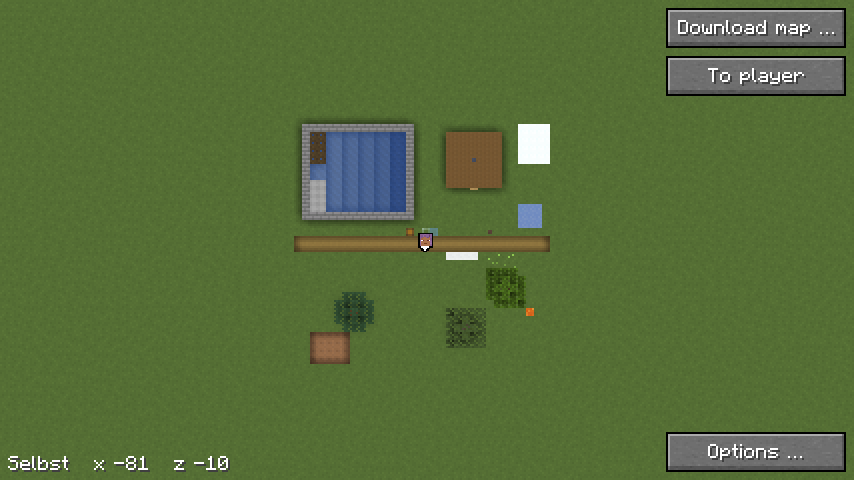
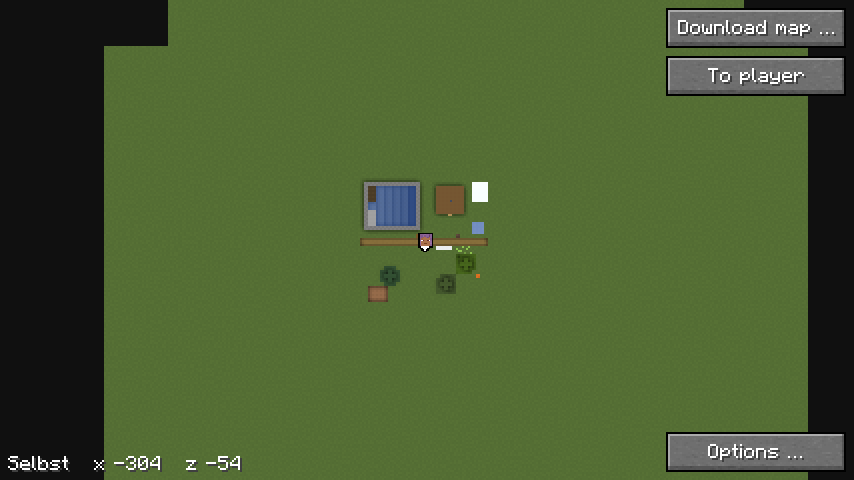
Bilder, Gegenproben und Platz je Massstab zur eigenen Karte (mod#78, mod#83)
Kachelwerk.lege lehnt ein Bild in anderem Massstab ab, statt die Kachel still
zu verdrehen. Der Gametest prüft, dass bei 2 px die feinste Stufe 7 ist und es
keine 8 gibt, und leert vor „Selbst“ die gemerkte Lage der Karte. selbst.png
und chunklinien.png mit 2 px neu. Messseite: Dateien und Platz je Massstab,
die Zeiten folgen in Ruhe.

diff --git a/src/gametest/java/com/nekyia/heroicmap/Bilder.java b/src/gametest/java/com/nekyia/heroicmap/Bilder.java
@@ -931,6 +931,8 @@ public final class Bilder implements FabricClientGameTest {
         }
         try {
             Laden.loesche(welt.resolve(Selbst.baum("minecraft:overworld")));
+            // Die Lage merkt sich die Karte je Dimension, nicht je Satz; die Stufe des Testsatzes passte nicht zur eigenen Karte.
+            Files.deleteIfExists(welt.resolve("karte.properties"));
         } catch (IOException e) {
             throw new UncheckedIOException(e);
         }
@@ -968,10 +970,10 @@ public final class Bilder implements FabricClientGameTest {
         context.waitFor(mc -> Selbst.INSTANZ.fertig(mc.player.chunkPosition(), 2), 1200);
         context.runOnClient(mc -> Minimap.INSTANZ.fuerTestBeschaeftigt(false));
         context.computeOnClient(mc -> Selbst.INSTANZ.schreibeJetzt()).join();
-        // Mit 2 px liegt die feinste Stufe auf 7, im Ordner des Massstabs.
-        Path stufe = welt.resolve(Selbst.baum("minecraft:overworld")).resolve("2").resolve("7");
-        if (!Files.isDirectory(stufe)) {
-            throw new AssertionError("Keine Kacheln auf Stufe 7 unter " + stufe);
+        // Mit 2 px liegt die feinste Stufe auf 7, im Ordner des Massstabs; Stufe 8 gibt es nicht.
+        Path ordner = welt.resolve(Selbst.baum("minecraft:overworld")).resolve("2");
+        if (!Files.isDirectory(ordner.resolve("7")) || Files.exists(ordner.resolve("8"))) {
+            throw new AssertionError("Kacheln mit 2 px nicht bis Stufe 7 unter " + ordner);
         }
         context.runOnClient(mc -> mc.gui.setScreen(new Karte(Satz.fuer(welt, "minecraft:overworld"))));
         context.waitTicks(40);

diff --git a/src/main/java/com/nekyia/heroicmap/Kachelwerk.java b/src/main/java/com/nekyia/heroicmap/Kachelwerk.java
@@ -68,6 +68,10 @@ final class Kachelwerk {
 
     /** Legt das Bild des Chunks (cx, cz), {@code chunk}² Pixel ARGB, in seine Kachel; es ersetzt, was dort war. */
     void lege(int cx, int cz, int[] pixel) {
+        if (pixel.length != chunk * chunk) {
+            // Ein Bild in anderem Massstab verdrehte die Kachel still.
+            throw new IllegalArgumentException("Chunk mit " + pixel.length + " Pixeln statt " + chunk * chunk);
+        }
         if (aufgegeben()) {
             return;
         }

diff --git a/src/test/java/com/nekyia/heroicmap/SelbstTest.java b/src/test/java/com/nekyia/heroicmap/SelbstTest.java
@@ -237,6 +237,8 @@ class SelbstTest {
         zwei.lege(-9, 8, voll(32, BLAU));
         assertEquals(new Kachelwerk.Kachel(7, -2, 1), schreibe(zwei, true).getFirst());
         assertEquals(BLAU, lies(ordner.resolve("2/7/-2/1.png"))[0 * 256 + 7 * 32]);
+        // Ein Chunk in anderem Massstab passt nicht und wird abgelehnt, statt die Kachel still zu verdrehen.
+        assertThrows(IllegalArgumentException.class, () -> zwei.lege(0, 0, voll(64, ROT)));
     }
 
     @Test

diff --git a/docs/messungen/2026-10-10-selbst-platz-je-massstab.md b/docs/messungen/2026-10-10-selbst-platz-je-massstab.md
@@ -1,0 +1,59 @@
+---
+title: Selbst gezeichnete Karte, Platz je Massstab
+description: Wie viele PNG die eigene Karte je Stunde schreibt und wie viel Platz sie danach braucht, bei 1, 2 und 4 Pixeln je Block, für eine Farm und einen Flug; ohne Minecraft, mit Kachelwerk. Nur Dateien und Platz, die Zeiten folgen in einer Messung in Ruhe.
+date: 2026-10-10
+commits: [e86457b]
+code:
+  - src/test/java/com/nekyia/heroicmap/KachelwerkMessung.java
+  - src/main/java/com/nekyia/heroicmap/Kachelwerk.java
+---
+
+# Selbst gezeichnete Karte, Platz je Massstab
+
+Eine Stunde Flug mit 20 Blöcken/s schreibt bei 1 px 4 276 PNG und belegt
+118 MiB, bei 2 px 7 366 PNG und 477 MiB, bei 4 px 16 306 PNG und
+1 877 MiB. Jede Stufe kostet etwa viermal so viel Platz wie die nächst
+gröbere, wie die Fläche in Pixeln.
+
+## Aufbau
+
+- `KachelwerkMessung` wie in
+  [Selbst gezeichnete Karte, Schreiben der Kacheln](2026-10-09-selbst-schreiben.md),
+  jetzt je Massstab: Kacheln von 256 Pixeln, die feinste Stufe 6, 7 oder 8,
+  bis Stufe 0.
+- **Farm:** ein Chunk ändert sich je Runde zu 5 s. **Flug:** je Runde 6
+  Reihen zu 25 Chunks dazu. 720 Runden, eine Stunde; jede zwölfte schreibt
+  auch die groben Stufen.
+- **Ein Chunk** hat je Block eine von 16 Zufallsfarben, je Pixel um bis zu
+  ±8 je Kanal verrauscht, wie gemittelte Texel. Echtes Gelände hat mehr
+  gleiche Flächen und packt in PNG besser; die Zahlen zum Platz sind darum
+  eher eine obere Schranke.
+- **Platz:** die Summe aller Dateien im Ordner nach der Stunde.
+
+## Ablauf
+
+10.10., 22:25 bis 22:32, ohne Sperre, neben anderen Programmen; Befehl
+`./gradlew test --tests '*KachelwerkMessung*' -Pkachelwerk=<datei>`. Dateien
+und Platz hängen nicht an der Last. Die Zeiten je Durchlauf stehen im
+Bericht des Tests, gelten aber nicht: Zeitmessungen laufen nachts in Ruhe
+unter Sperre.
+
+## Ergebnis
+
+| Fall | Massstab | PNG je Stunde | Platz danach |
+|---|---|---|---|
+| Farm | 1 px | 1 740 | unter 0,1 MiB |
+| Farm | 2 px | 1 800 | unter 0,1 MiB |
+| Farm | 4 px | 1 860 | unter 0,1 MiB |
+| Flug | 1 px | 4 276 | 118,1 MiB |
+| Flug | 2 px | 7 366 | 476,6 MiB |
+| Flug | 4 px | 16 306 | 1 877,1 MiB |
+
+## Schluss
+
+- **Bei 4 px** gleicht die Zahl der PNG der Messung vom 09.10.: Der Weg ist
+  derselbe.
+- **Platz** wächst etwa mit dem Quadrat der Pixel je Block; 1 px braucht
+  im Flug rund ein Sechzehntel von 4 px.
+- **Die Farm** bleibt bei jedem Massstab klein: Es sind immer dieselben
+  Kacheln, eine je Stufe.

diff --git a/docs/selbst.md b/docs/selbst.md
@@ -115,7 +115,8 @@ hat es der User gewünscht, siehe
   Massstabs. Die Projektion ist die des Renderers, siehe
   [Projektion](projektion.md): Chunk (cx, cz) liegt in Kachel
   (⌊cx / n⌋, ⌊cz / n⌋), n die Chunks je Seite einer Kachel. Ein Chunk
-  ersetzt seinen Ausschnitt ganz (`Kachelwerk.lege`).
+  ersetzt seinen Ausschnitt ganz (`Kachelwerk.lege`); ein Bild in anderem
+  Massstab lehnt `lege` ab, statt die Kachel zu verdrehen.
 
   | Massstab | feinste Stufe | Chunks je Kachel | Blöcke je Kachel |
   |---|---|---|---|
@@ -175,7 +176,19 @@ hat es der User gewünscht, siehe
   | Flug mit 20 Blöcken/s, Sichtweite 12 | 105 ms | 324 ms | 16 306 |
 
   Bei der Farm schriebe jede Stufe je Änderung alle 5 s 6 480 PNG je
-  Stunde. Die Messung läuft ohne Minecraft mit
+  Stunde.
+- **Platz je Massstab,** eine Stunde Flug, gemessen am 10.10., siehe
+  [Selbst gezeichnete Karte, Platz je Massstab](messungen/2026-10-10-selbst-platz-je-massstab.md):
+
+  | Massstab | PNG je Stunde | Platz danach |
+  |---|---|---|
+  | 1 px | 4 276 | 118 MiB |
+  | 2 px | 7 366 | 477 MiB |
+  | 4 px | 16 306 | 1 877 MiB |
+
+  Die Zeiten zum Schreiben bei 1 und 2 px misst die nächste Messung in
+  Ruhe; die Tabelle unter „Schreiben“ gilt für 4 px. Beide laufen ohne
+  Minecraft mit
   `./gradlew test --tests '*KachelwerkMessung*' -Pkachelwerk=<datei>`.
 
 ## Bild

diff --git a/docs/index.md b/docs/index.md
@@ -57,4 +57,5 @@ einer Datei findet `git grep -l "<pfad>" docs/` ihre Seiten.
 - [2026-10-09, Minimap, Vieleck auch ungedreht](messungen/2026-10-09-minimap-vieleck.md): was die Minimap je Frame kostet, seit sie auch ungedreht mit dem Vieleck zeichnet, gegen main; rund so billig wie eckig.
 - [2026-10-10, Minimap, Verzierungen drehen mit](messungen/2026-10-10-minimap-verzierungen.md): was die Minimap mit dem Rahmen „kompass“ je Frame kostet, seit die Verzierungen mitdrehen, gegen main im Wechsel A B A B unter Grundlast; unverändert.
 - [2026-10-09, Selbst gezeichnete Karte, Schreiben der Kacheln](messungen/2026-10-09-selbst-schreiben.md): was `Kachelwerk.schreibe` je Durchlauf kostet und wie viele PNG es je Stunde schreibt, für eine Farm und einen Flug.
+- [2026-10-10, Selbst gezeichnete Karte, Platz je Massstab](messungen/2026-10-10-selbst-platz-je-massstab.md): wie viele PNG die eigene Karte je Stunde schreibt und wie viel Platz sie braucht, bei 1, 2 und 4 px; Zeiten folgen.
 - [2026-10-06, Vollbildkarte, Übernahme der Kacheln](messungen/2026-10-06-vollbildkarte-uebernahme.md): was eine Kachel den Render-Thread kostet, mit und ohne Kopieren der Pixel dort, und wie schnell der Dekoder liefert.
